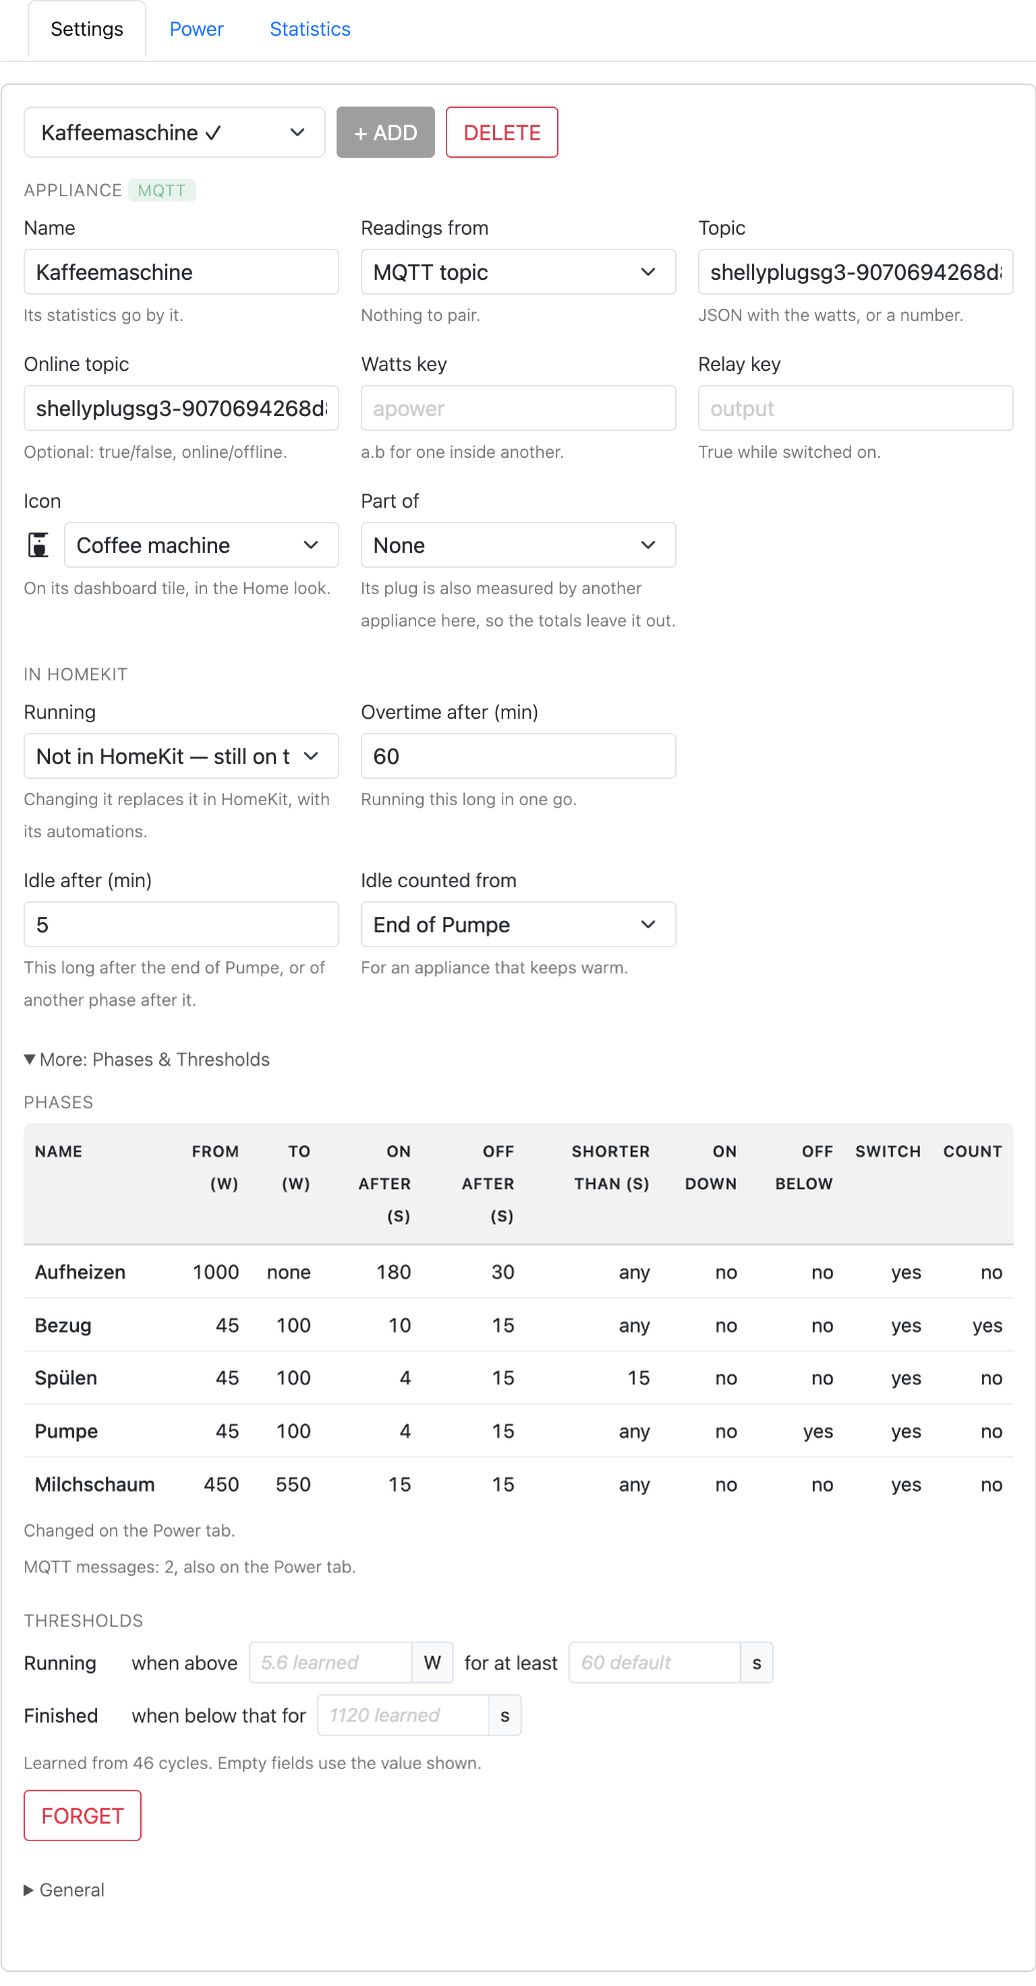
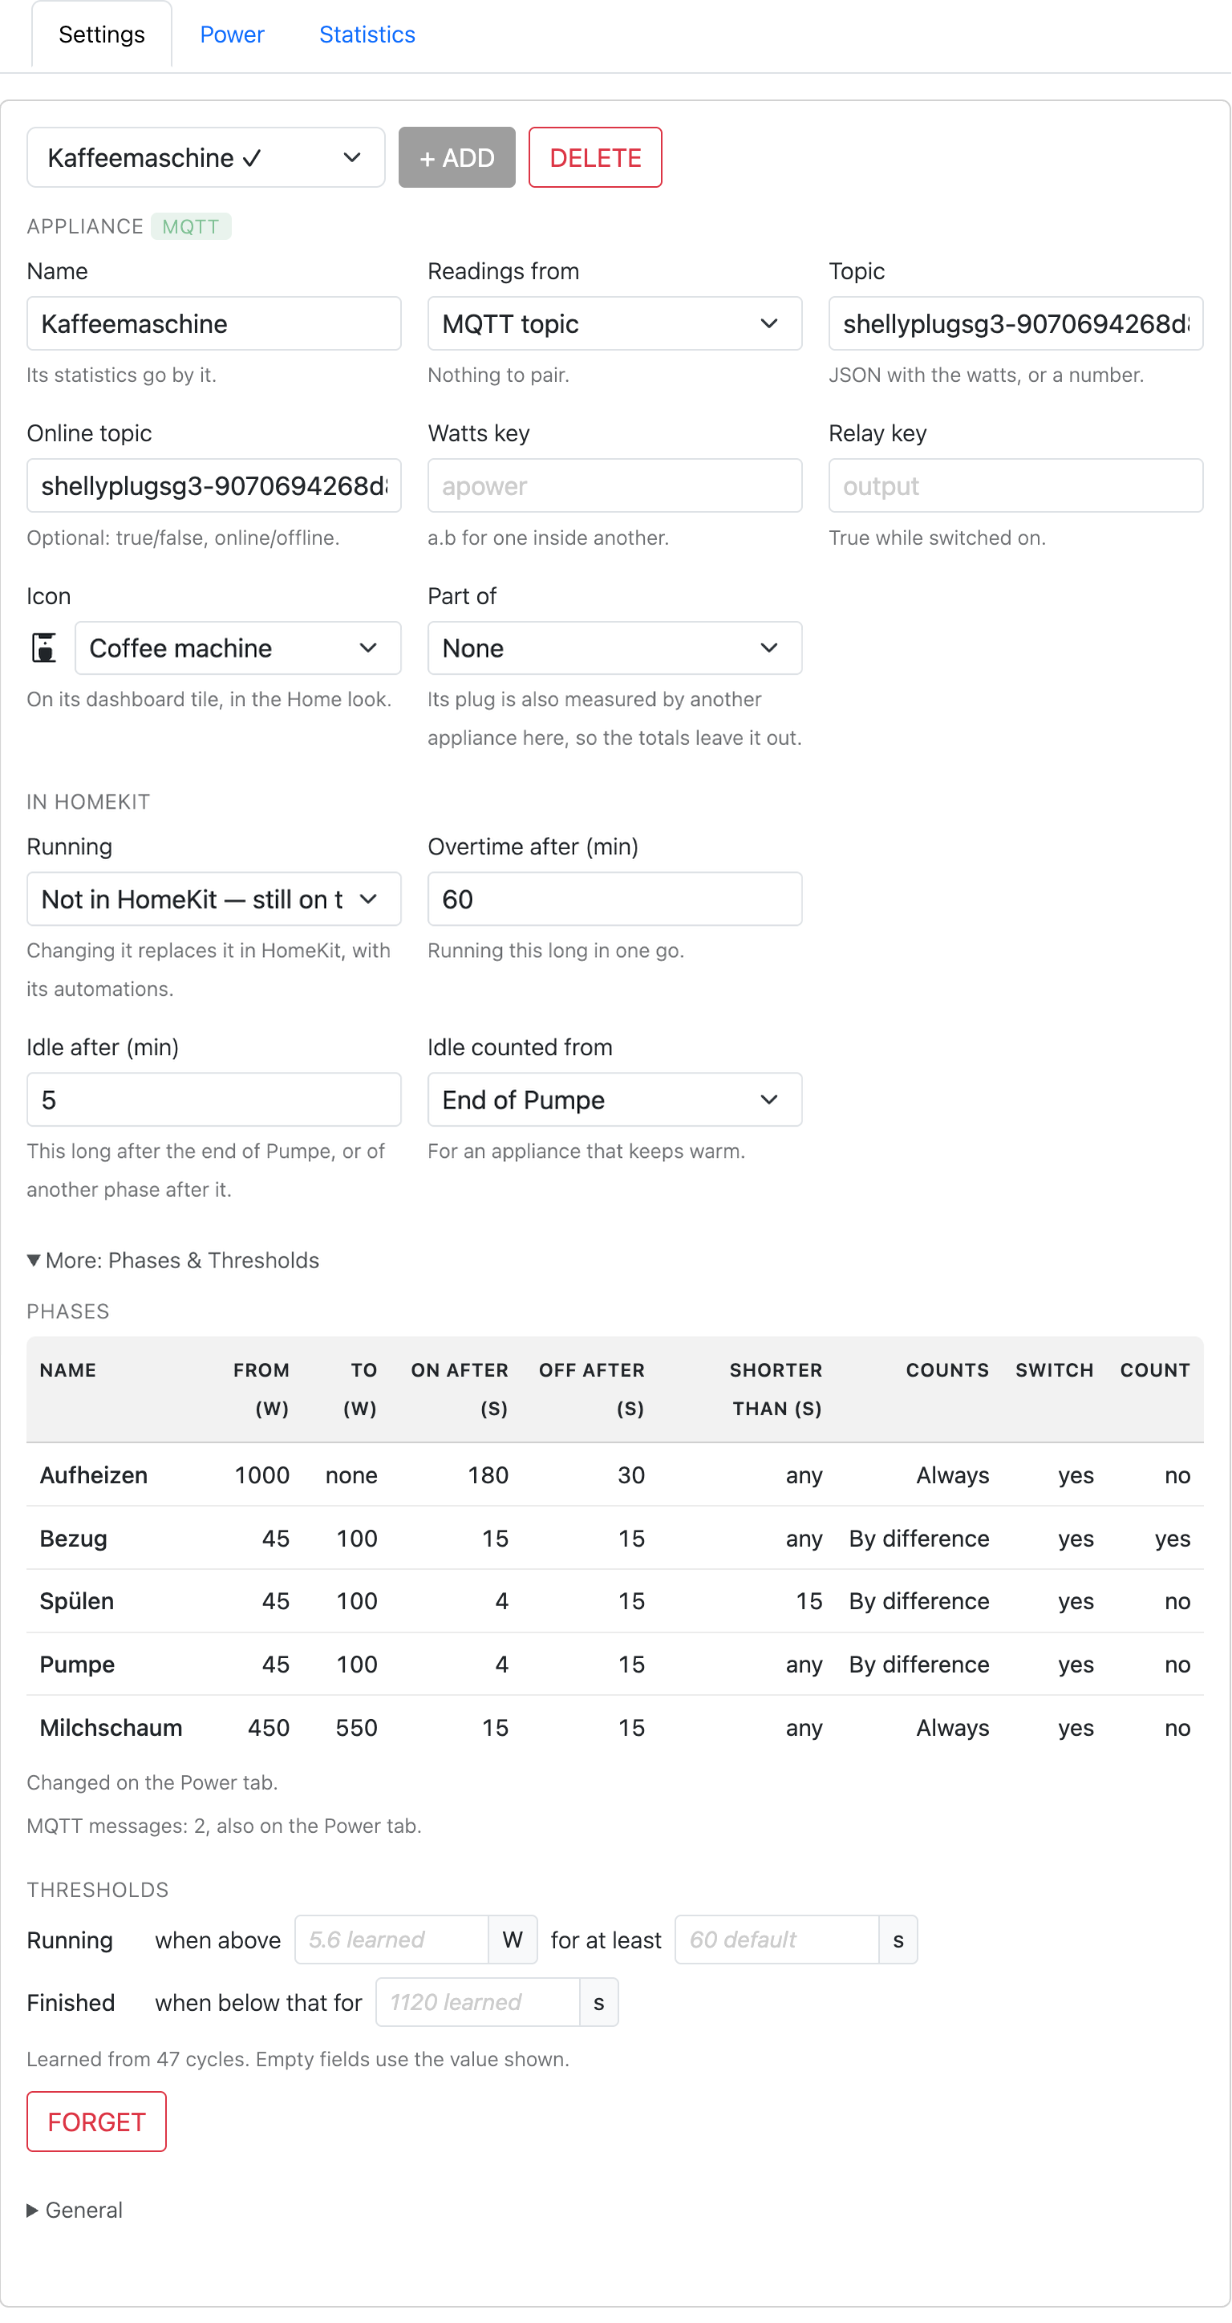
Counts: its arrow nearer the edge so By difference fits, one line in the table; new screenshots
Claude-Session: https://claude.ai/code/session_01FXXeyGX9nkbXjdAycGNCsJ

diff --git a/homebridge-ui/public/settings.js b/homebridge-ui/public/settings.js
@@ -63,13 +63,15 @@
      label measured in the Homebridge UI, and a few pixels. The numbers without
      arrows, just wide enough for "1000"; the name gets whatever is left of the
      768 pixels the Homebridge UI gives the page. */
-  .om-set-phase { display: grid; grid-template-columns: minmax(0, 1fr) repeat(5, 3.05rem) 8.4rem 4.35rem 4.05rem 1.4rem;
+  .om-set-phase { display: grid; grid-template-columns: minmax(0, 1fr) repeat(5, 3.05rem) 8.6rem 4.35rem 4.05rem 1.4rem;
                   gap: .25rem; align-items: center; padding: .3rem 0; }
   .om-set-phase-switches { display: contents; }
   .om-set-phase input[type=number] { -moz-appearance: textfield; appearance: textfield; }
   .om-set-phase input[type=number]::-webkit-inner-spin-button,
   .om-set-phase input[type=number]::-webkit-outer-spin-button { -webkit-appearance: none; margin: 0; }
   .om-set-phase .form-control { padding-left: .3rem; padding-right: .3rem; }
+  /* Counts: its arrow closer to the edge, so that "By difference" fits whole. */
+  .om-set-phase .form-select { padding-left: .3rem; padding-right: 1.75rem; background-position: right .35rem center; }
   .om-set-phase.om-set-head { font-size: .78rem; opacity: .7; padding-bottom: 0; align-items: end; }
   .om-set-phase .form-check { margin: 0; white-space: nowrap; padding-left: 1.25rem; }
   /* The label close to its box: a quarter of a rem instead of half; rem, as
@@ -671,7 +673,7 @@
           el('td', {}, phase.minSeconds ?? 5),
           el('td', {}, phase.holdSeconds ?? 30),
           el('td', {}, phase.maxSeconds ?? 'any'),
-          el('td', { title: COUNTS_HELP[countsOf(phase)] }, Object.fromEntries(COUNTS)[countsOf(phase)]),
+          el('td', { title: COUNTS_HELP[countsOf(phase)], style: 'white-space: nowrap' }, Object.fromEntries(COUNTS)[countsOf(phase)]),
           el('td', {}, phase.sensor !== false ? 'yes' : 'no'),
           el('td', {}, phase.count === true ? 'yes' : 'no')))));
       return el('div', { class: 'om-set-section' },

diff --git a/README.md b/README.md
@@ -127,7 +127,7 @@ the first plug.
 
 <picture>
   <source media="(prefers-color-scheme: dark)" srcset="https://raw.githubusercontent.com/rummeyer/homebridge-appliance-monitor/main/docs/screenshots/settings-dark.png">
-  <img src="https://raw.githubusercontent.com/rummeyer/homebridge-appliance-monitor/main/docs/screenshots/settings-light.png" alt="The Settings tab: an appliance picked from the list, with where its readings come from (here an MQTT topic, with its online topic and keys), its dashboard icon, Part of, how it shows in HomeKit, its Overtime time, on a line of its own its Idle time and what it counts from, and under More its phases and the thresholds it learned" width="760">
+  <img src="https://raw.githubusercontent.com/rummeyer/homebridge-appliance-monitor/main/docs/screenshots/settings-light.png" alt="The Settings tab: an appliance picked from the list, with where its readings come from (here an MQTT topic, with its online topic and keys), its dashboard icon, Part of, how it shows in HomeKit, its Overtime time, on a line of its own its Idle time and what it counts from, and under More its phases, with what each counts, and the thresholds it learned" width="760">
 </picture>
 
 A paired plug is remembered by its name, so renaming it means pairing it
@@ -303,7 +303,7 @@ learn from; see [Learning](#learning).)
 
 <picture>
   <source media="(prefers-color-scheme: dark)" srcset="https://raw.githubusercontent.com/rummeyer/homebridge-appliance-monitor/main/docs/screenshots/power-dark.png">
-  <img src="https://raw.githubusercontent.com/rummeyer/homebridge-appliance-monitor/main/docs/screenshots/power-light.png" alt="The Power tab: a coffee machine's power over twelve hours, with its phases Aufheizen, Bezug, Spülen, Pumpe and Milchschaum and a bar for each showing when it was on; below, each phase in one line with its checkboxes, and the MQTT messages for the shot timer" width="760">
+  <img src="https://raw.githubusercontent.com/rummeyer/homebridge-appliance-monitor/main/docs/screenshots/power-light.png" alt="The Power tab: a coffee machine's power over twelve hours, with its phases Aufheizen, Bezug, Spülen, Pumpe and Milchschaum and a bar for each showing when it was on; below, each phase in one line — Bezug, Spülen and Pumpe counting by difference — and the MQTT messages for the shot timer" width="760">
 </picture>
 
 Name the phase, adjust the range if you like, and save; the chart shows a
